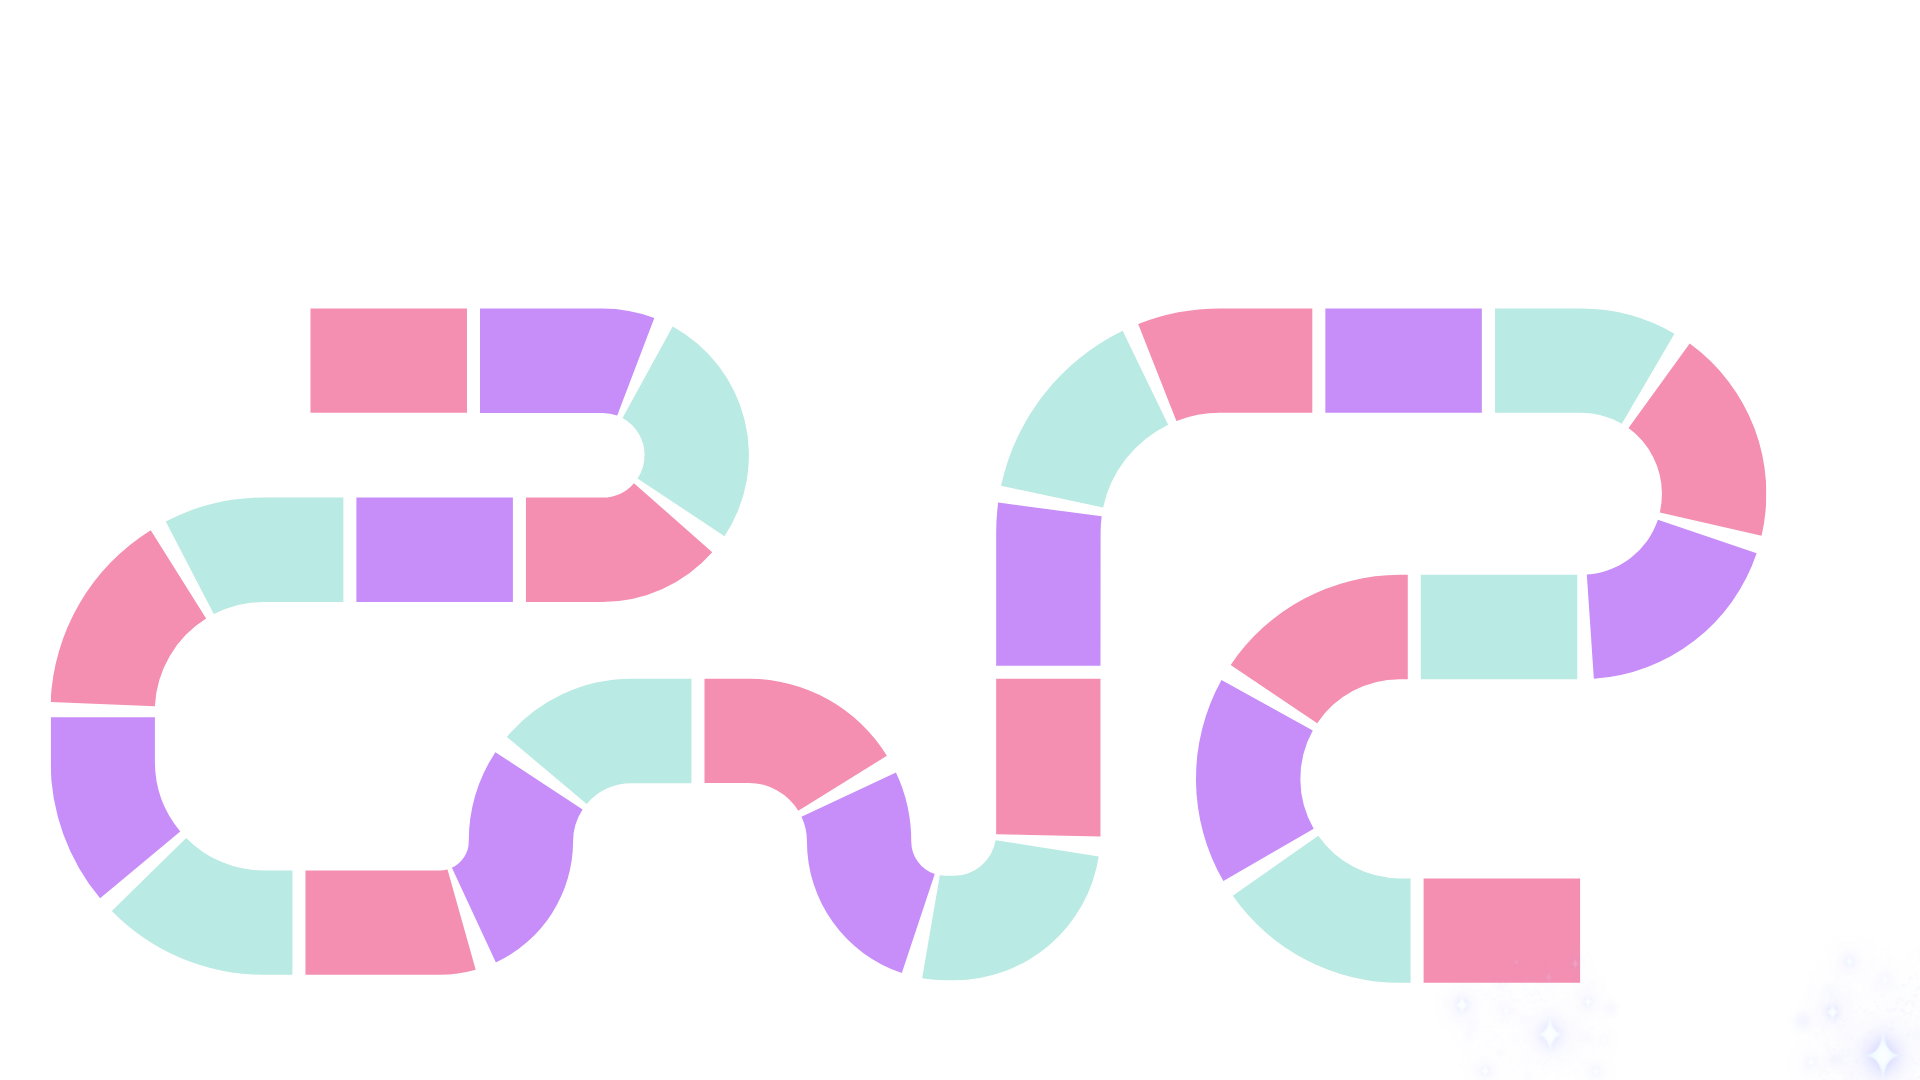
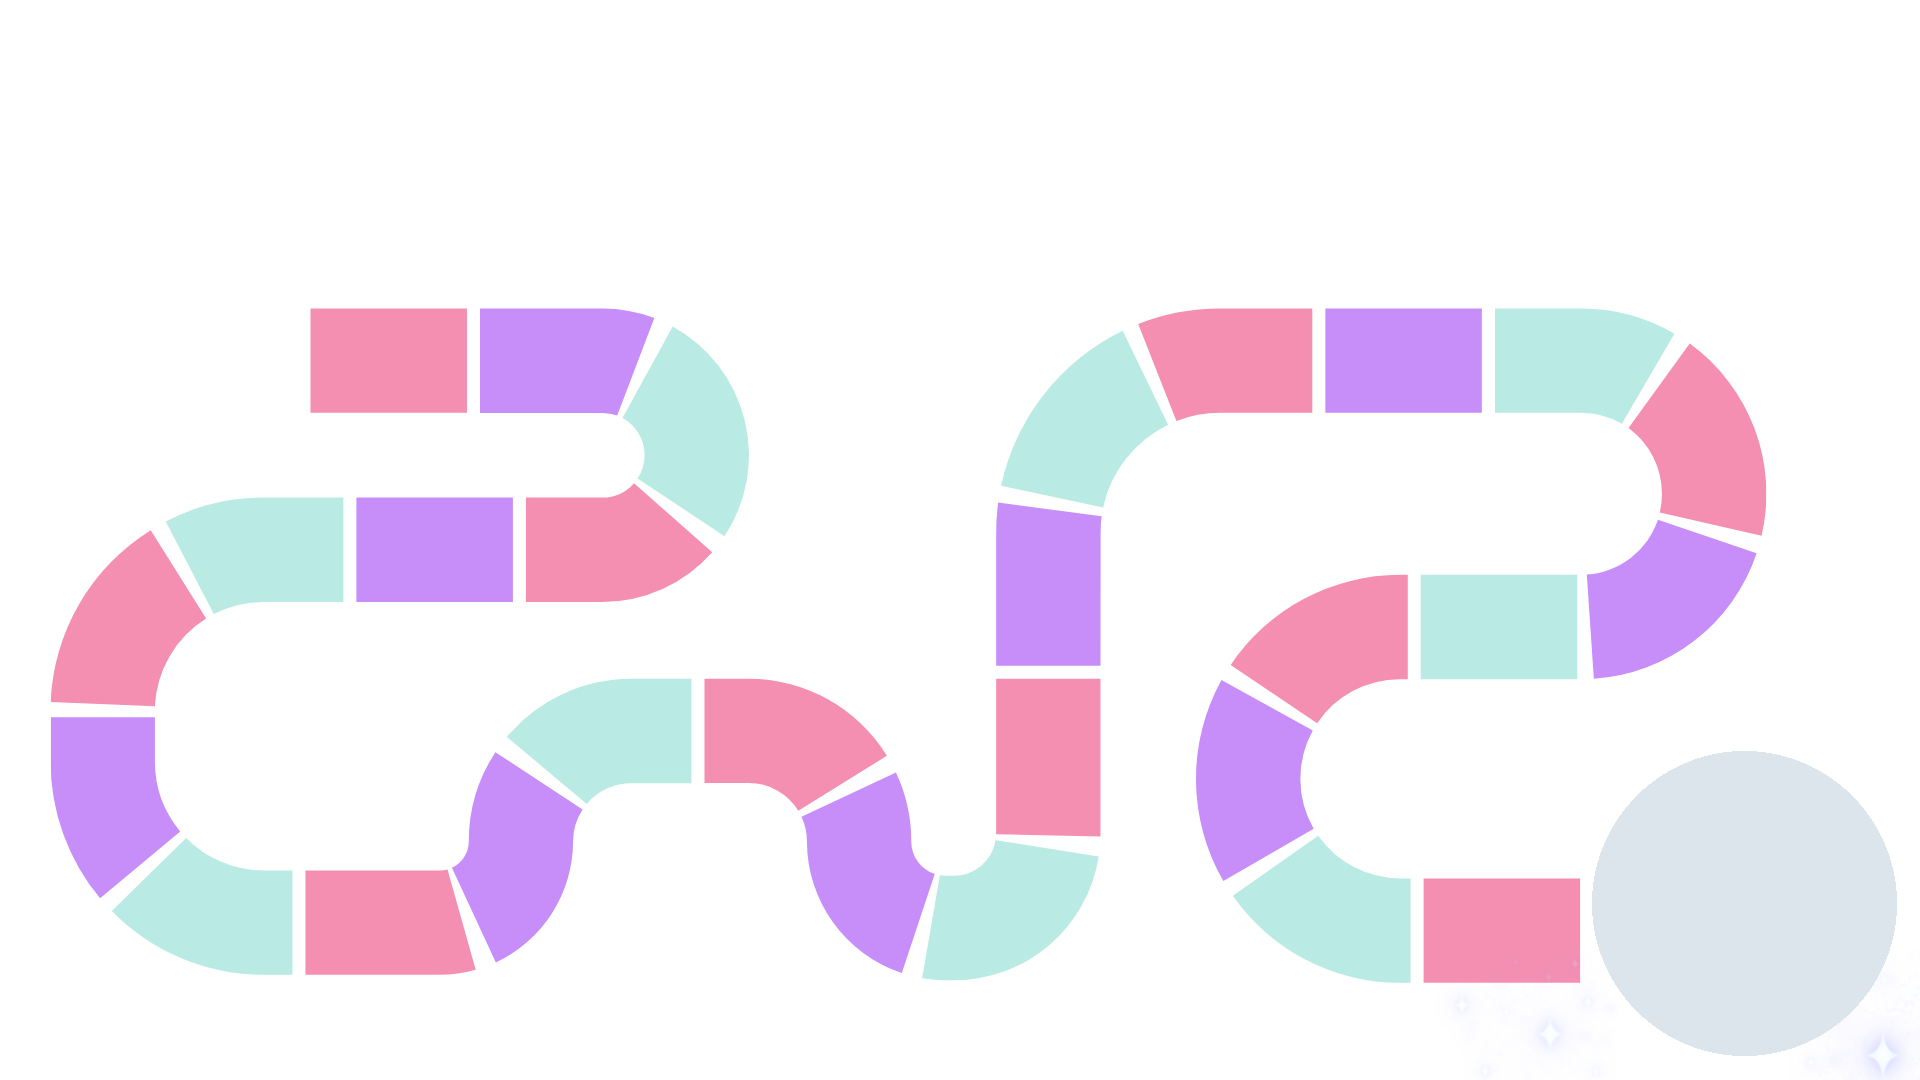
test: light only the bare square (not what is drawn on it), and the Moon

Changed region(s): [[0.8125, 0.6722, 1.0, 0.9778]]

diff --git a/app/static/pruebas/dado.js b/app/static/pruebas/dado.js
@@ -56,7 +56,7 @@ async function start() {
   document.getElementById("board-image").src = boardUrl;
   places = game.places;
   if (game.squares_image_url) {
-    squareShapes = await shapesOfTheSquares(`../${game.squares_image_url}`);
+    squareShapes = await shapesOfTheSquares(`../${game.squares_image_url}`, boardUrl);
   }
   ideas.square.addEventListener("change", lightUp);
   const [{ avatar }] = await randomPlayers(["Tú"]);
@@ -116,24 +116,37 @@ function lightUp() {
   token.before(lit);
 }
 
-// Each square's shape, from the squares picture: from the middle of each square (its place),
-// everything of it that is not see-through (the numbers' holes too). In % of the board,
-// with a mask picture of the shape.
-async function shapesOfTheSquares(url) {
-  const image = new Image();
-  image.src = url;
-  await image.decode();
-  const { naturalWidth: width, naturalHeight: height } = image;
-  const canvas = document.createElement("canvas");
-  canvas.width = width;
-  canvas.height = height;
-  const context = canvas.getContext("2d", { willReadFrequently: true });
-  context.drawImage(image, 0, 0);
-  const alpha = context.getImageData(0, 0, width, height).data;
+// Each square's shape (and the Moon's), from the squares picture: from the middle of each
+// place, everything of it that is not see-through. In % of the board, with a mask picture
+// of the shape: only where the board shows the square itself, so what is drawn over it (a
+// galaxy, stars, its number) is not lit, and is never cut at the square's edge.
+async function shapesOfTheSquares(url, boardUrl) {
+  const pixelsOf = async (src) => {
+    const image = new Image();
+    image.src = src;
+    await image.decode();
+    const canvas = document.createElement("canvas");
+    canvas.width = image.naturalWidth;
+    canvas.height = image.naturalHeight;
+    const context = canvas.getContext("2d", { willReadFrequently: true });
+    context.drawImage(image, 0, 0);
+    return context.getImageData(0, 0, canvas.width, canvas.height);
+  };
+  const squaresPicture = await pixelsOf(url);
+  const { width, height } = squaresPicture;
+  const alpha = squaresPicture.data;
+  const board = (await pixelsOf(boardUrl)).data;
+  // How much of a pixel is the square itself: 1 where the board has the square's colour,
+  // fading to 0 where something else is drawn over it.
+  const bare = (x, y) => {
+    const i = (y * width + x) * 4;
+    const difference = Math.abs(board[i] - alpha[i]) + Math.abs(board[i + 1] - alpha[i + 1]) + Math.abs(board[i + 2] - alpha[i + 2]);
+    return Math.max(0, Math.min(1, (150 - difference) / 90));
+  };
   const solid = (x, y) => alpha[(y * width + x) * 4 + 3] > 127;
   const taken = new Uint8Array(width * height);
   const shapes = new Map();
-  for (let number = 1; number < places.length - 1; number += 1) {
+  for (let number = 0; number < places.length; number += 1) { // the start and the Moon too, if drawn
     const x = Math.round((places[number][0] * width) / 100);
     const y = Math.round((places[number][1] * height) / 100);
     if (!solid(x, y) || taken[y * width + x]) {
@@ -164,10 +177,19 @@ async function shapesOfTheSquares(url) {
     mask.width = right - left + 1;
     mask.height = bottom - top + 1;
     const maskContext = mask.getContext("2d");
-    maskContext.fillStyle = "#000";
+    const shape = maskContext.createImageData(mask.width, mask.height);
+    // A shape that hardly matches the board (the Moon: a plain circle over a drawing) is lit
+    // whole; a square, only where it is bare.
+    let matching = 0;
     for (let i = 0; i < pixels.length; i += 2) {
-      maskContext.fillRect(pixels[i] - left, pixels[i + 1] - top, 1, 1);
+      matching += bare(pixels[i], pixels[i + 1]);
     }
+    const whole = matching / (pixels.length / 2) < 0.5;
+    for (let i = 0; i < pixels.length; i += 2) {
+      const lit = whole ? 1 : bare(pixels[i], pixels[i + 1]);
+      shape.data[((pixels[i + 1] - top) * mask.width + (pixels[i] - left)) * 4 + 3] = Math.round(255 * lit);
+    }
+    maskContext.putImageData(shape, 0, 0);
     shapes.set(number, {
       left: (left / width) * 100,
       top: (top / height) * 100,

diff --git a/docs/game-yaml.md b/docs/game-yaml.md
@@ -28,7 +28,7 @@ Ejemplos completos: `content/games/space-race/game.yaml` (tablero corto) y
 |---|---|
 | `title` | El nombre que sale en el menú. |
 | `image` | El dibujo del tablero, en la carpeta del juego. Sin él, se dibuja un tablero sencillo de puntos numerados (se puede jugar igual). |
-| `squares_image` | Opcional: el mismo dibujo con solo las casillas (lo demás transparente), del mismo tamaño. Sirve para iluminar la casilla de una ficha. |
+| `squares_image` | Opcional: el mismo dibujo con solo las casillas y la meta (lo demás transparente), del mismo tamaño. Sirve para iluminar la casilla de una ficha. |
 | `voice` | `true`: una voz lee las cartas y las preguntas (para quien aún no lee). El 🔊 la apaga. |
 | `places` | Dónde está cada sitio en el dibujo: `[x, y]` en % del ancho y del alto. En orden: la salida, la casilla 1, 2, 3… y la meta (la Luna, el último). Otro tablero necesita los suyos. |
 
